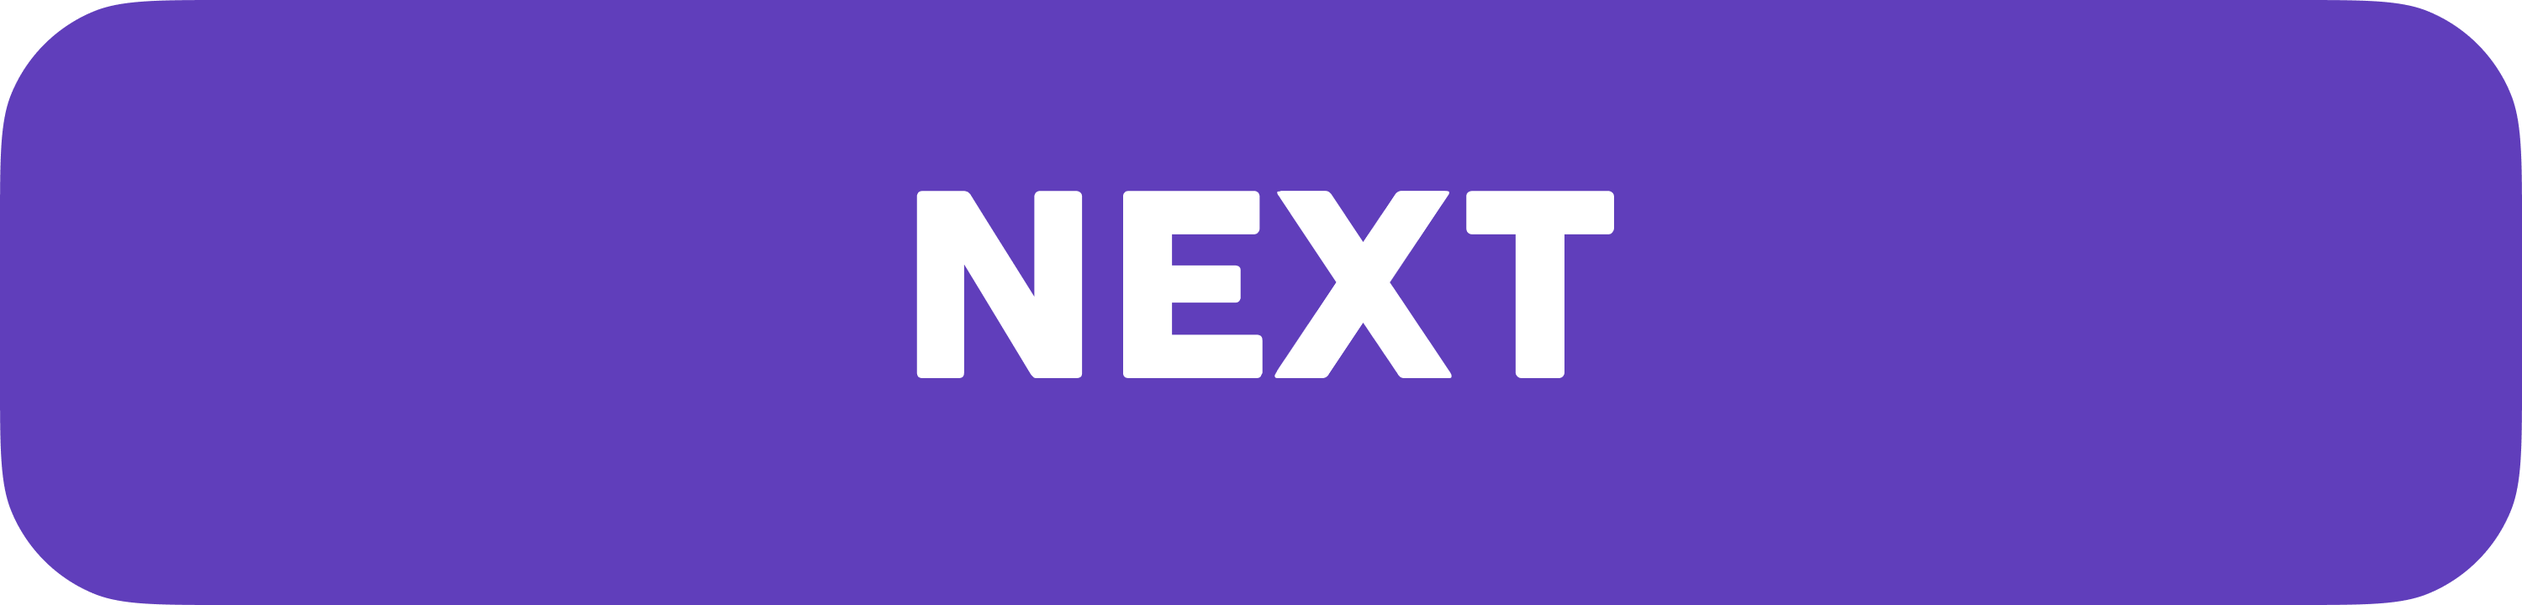
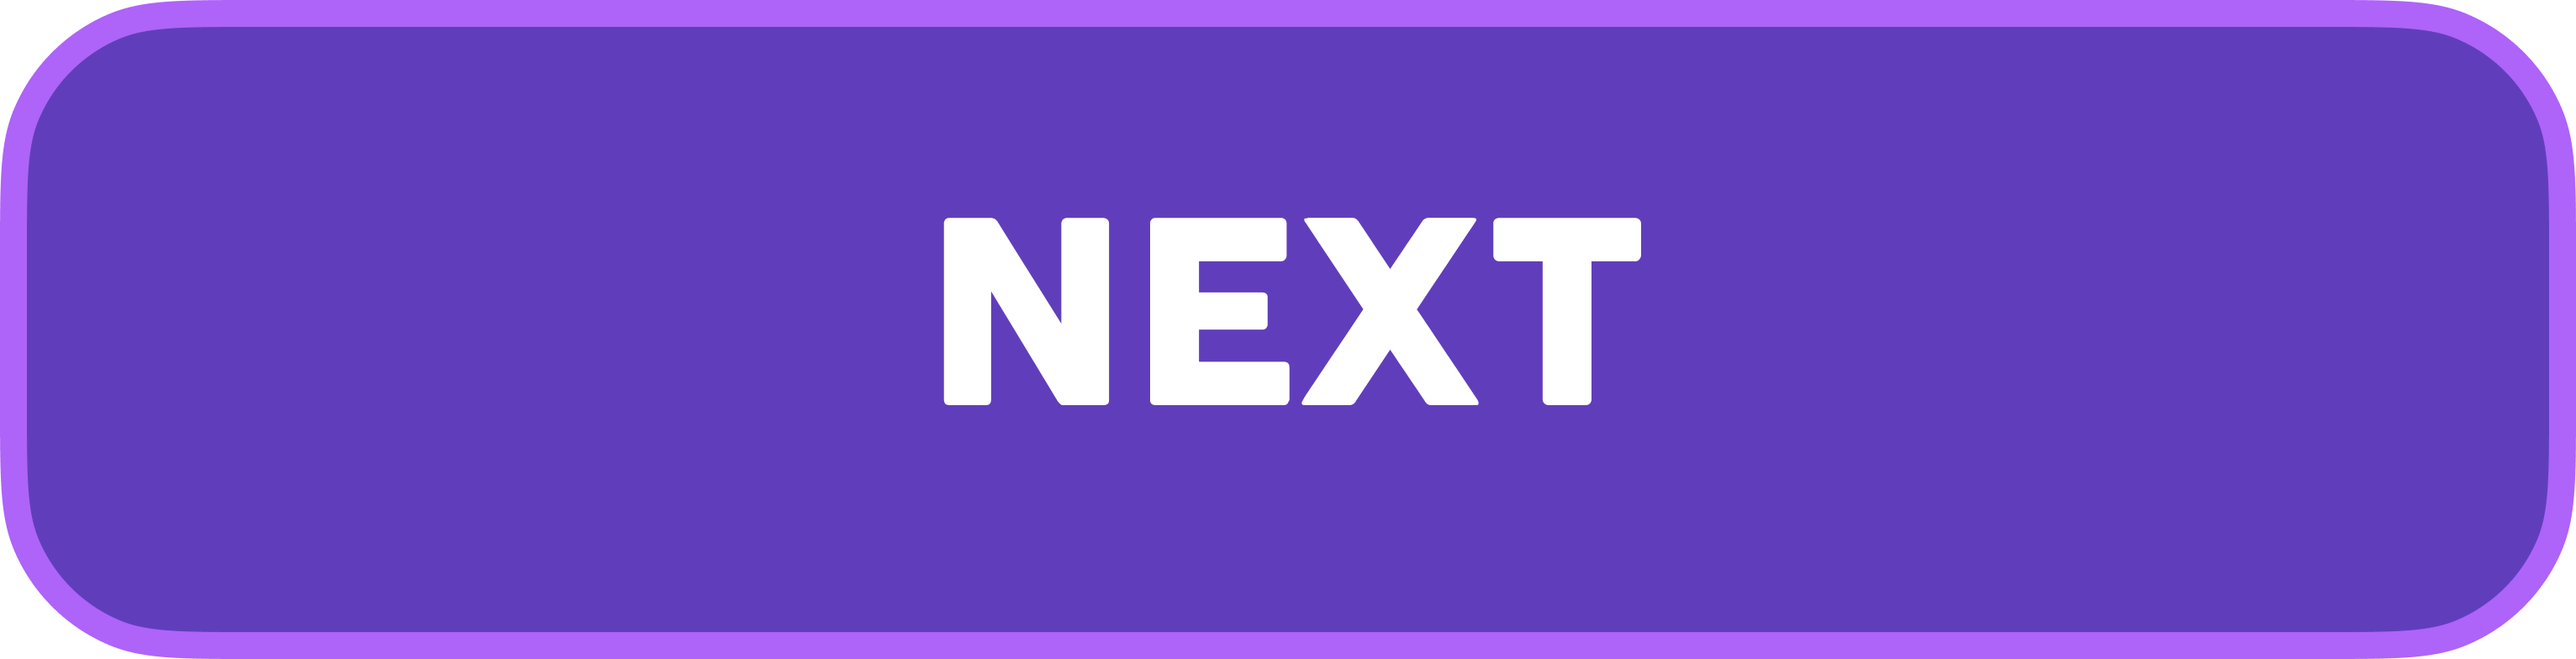
Merge

diff --git a/src/common/FrameButtons.module.css b/src/common/FrameButtons.module.css
@@ -134,11 +134,27 @@
   justify-self: center;
   align-self: center;
   cursor: pointer;
+
+  position: relative;
 }
 .movebtn.nextbtn {
   background: url("../assets/buttons/next-button.png") center center/contain
     no-repeat;
 }
+/* .movebtn.nextbtn::before {
+  position: absolute;
+  content: "";
+  width: 90%;
+  height: 100%;
+  left: 0;
+
+
+  background-color: rgba(131, 15, 246, 0.9);
+  box-shadow: 0 0 0 2px black;
+  transform: translate3d(0, 0.75em, -1em);
+  transition: transform 150ms cubic-bezier(0, 0, 0.58, 1),
+    box-shadow 150ms cubic-bezier(0, 0, 0.58, 1);
+} */
 .movebtn.takePhoto {
   background: url("../assets/buttons/takePhoto-button.png") center
     center/contain no-repeat;
